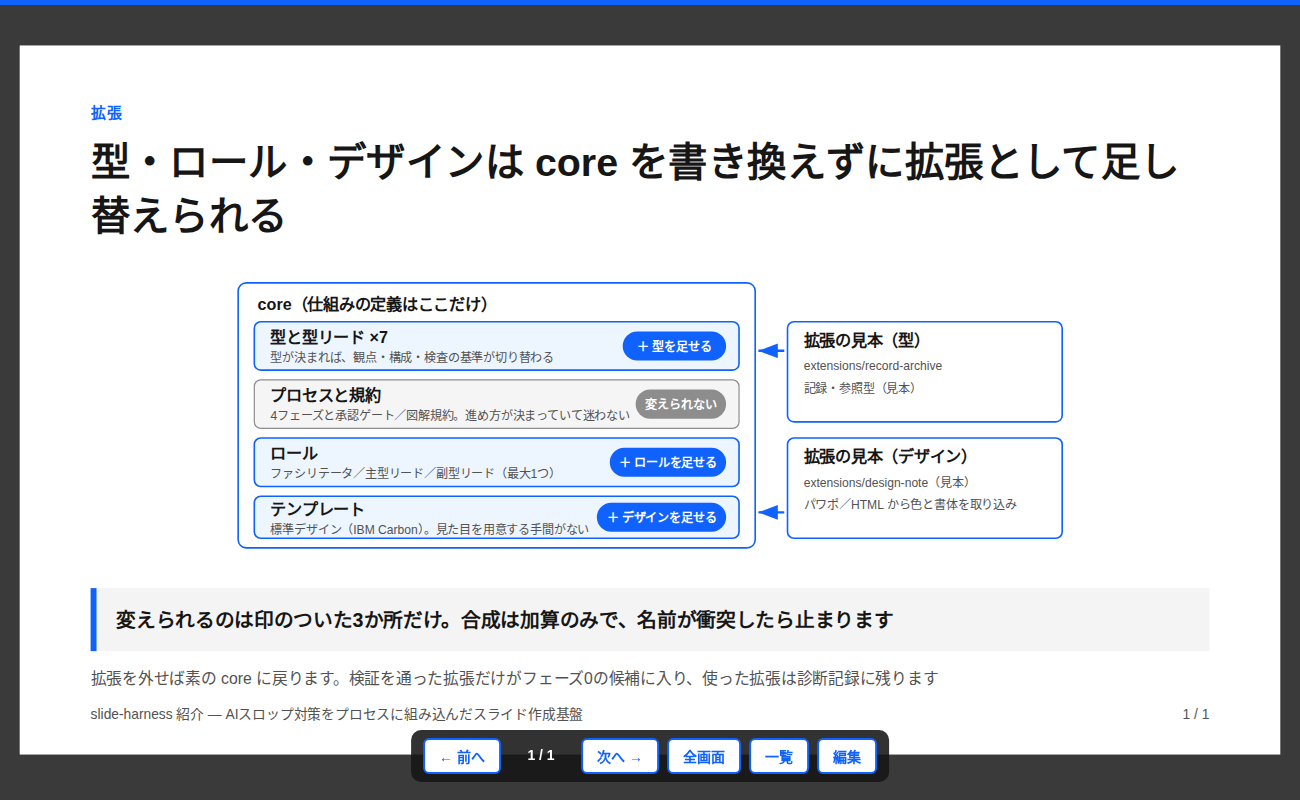
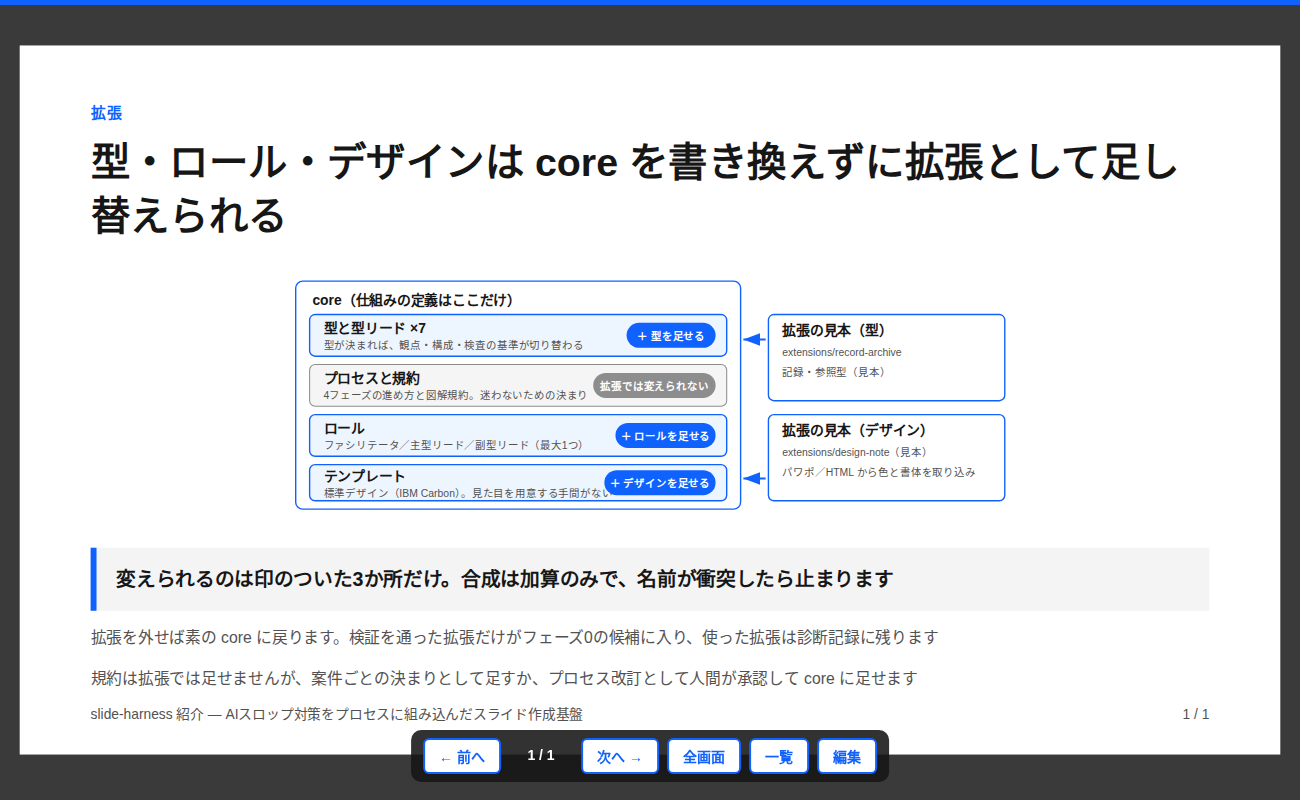
6枚目: 規約は拡張では変えられないが追加経路はあることを明記（バッジと注記を修正）

Changed region(s): [[0.0615, 0.3438, 0.8, 0.875]]

diff --git a/works/slide-harness-intro/slides.html b/works/slide-harness-intro/slides.html
@@ -270,7 +270,7 @@ svg text{font-family:var(--font)}
 <text class="sub" x="80" y="258">ファシリテータ／主型リード／副型リード（最大1つ）</text>
 <rect class="box" x="60" y="136" width="600" height="60" rx="8"/>
 <text class="lbl" x="80" y="162">プロセスと規約</text>
-<text class="sub" x="80" y="186">4フェーズと承認ゲート／図解規約。進め方が決まっていて迷わない</text>
+<text class="sub" x="80" y="186">4フェーズの進め方と図解規約。迷わないための決まり</text>
 <rect class="box" x="60" y="280" width="600" height="52" rx="8"/>
 <text class="lbl" x="80" y="303">テンプレート</text>
 <text class="sub" x="80" y="327">標準デザイン（IBM Carbon）。見た目を用意する手間がない</text>
@@ -314,9 +314,9 @@ svg text{font-family:var(--font)}
 <text x="572" y="244" text-anchor="middle" style="fill:#FFFFFF;font-size:15px;font-weight:700">＋ ロールを足せる</text>
 <rect class="box-gray" x="60" y="136" width="600" height="60" rx="8"/>
 <text class="lbl" x="80" y="162">プロセスと規約</text>
-<text class="sub" x="80" y="186">4フェーズと承認ゲート／図解規約。進め方が決まっていて迷わない</text>
-<rect style="fill:#8D8D8D" x="532" y="148" width="112" height="36" rx="18"/>
-<text x="588" y="172" text-anchor="middle" style="fill:#FFFFFF;font-size:15px;font-weight:700">変えられない</text>
+<text class="sub" x="80" y="186">4フェーズの進め方と図解規約。迷わないための決まり</text>
+<rect style="fill:#8D8D8D" x="468" y="148" width="176" height="36" rx="18"/>
+<text x="556" y="172" text-anchor="middle" style="fill:#FFFFFF;font-size:15px;font-weight:700">拡張では変えられない</text>
 <rect class="box-tint" x="60" y="280" width="600" height="52" rx="8"/>
 <text class="lbl" x="80" y="303">テンプレート</text>
 <text class="sub" x="80" y="327">標準デザイン（IBM Carbon）。見た目を用意する手間がない</text>
@@ -336,6 +336,7 @@ svg text{font-family:var(--font)}
     </div>
     <div class="takeaway">変えられるのは印のついた3か所だけ。合成は加算のみで、名前が衝突したら止まります</div>
     <div class="note">拡張を外せば素の core に戻ります。検証を通った拡張だけがフェーズ0の候補に入り、使った拡張は診断記録に残ります</div>
+    <div class="note">規約は拡張では足せませんが、案件ごとの決まりとして足すか、プロセス改訂として人間が承認して core に足せます</div>
     <div class="deckname">slide-harness 紹介 — AIスロップ対策をプロセスに組み込んだスライド作成基盤</div>
     <div class="pageno"></div>
   </section>

diff --git a/works/slide-harness-intro/lint-report-v3.md b/works/slide-harness-intro/lint-report-v3.md
@@ -22,6 +22,9 @@ G2 パス（全層）。フェーズ3（検証）へ。
 - 1枚目：下部の注記テキストが枠からはみ出していたため2行に分割（視覚 lint の指摘として処理）。再 lint パス
 - 変更はこの2枚のみ。他のスライドは不変
 
+## 追記14（2026-11-17、表現の変更に伴う再 lint）
+- 6枚目：バッジ「変えられない」が絶対的な読みになり、規約の追加経路（案件規約／プロセス改訂での core 追加）と矛盾して見えるという人間の指摘に対応。バッジを「拡張では変えられない」にし、注記に規約の2つの追加経路を明記。5枚目と共通の部品図の文言も合わせて短縮。再 lint パス（バッジと本文の重なりなしを画像で確認）
+
 ## 追記13（2026-11-17、構成の変更に伴う再 lint）
 - 10枚目：人間の選択（案A）で完成形の解剖図に作り直し（タイトルも G1 承認時の形に復帰）。再 lint パス（画像で確認。右側ラベルの説明文のはみ出しを初回レンダリングで検出して短縮済み）
 
